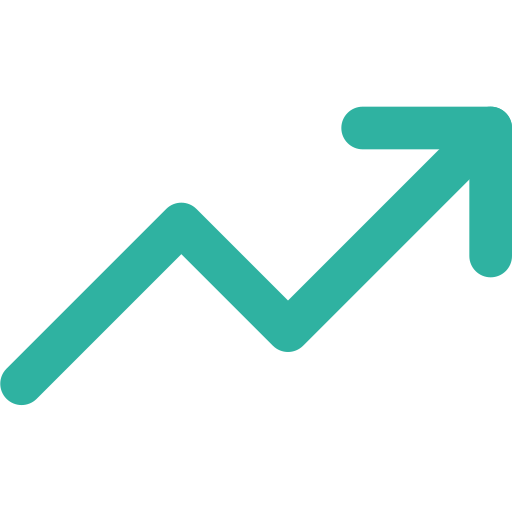
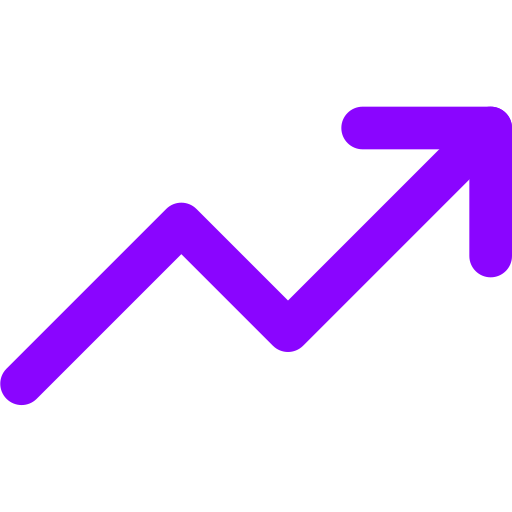
style: enhance UI with purple accents across components; update scrollbar, loading animations, and footer styles for a cohesive design; improve link hover effects and add subtle glitch animations to header

Changed region(s): [[0.0, 0.1875, 1.0, 0.8125]]

diff --git a/dashboard/app/globals.css b/dashboard/app/globals.css
@@ -64,7 +64,7 @@ html {
   display: none;
 }
 
-/* Custom scrollbar for expanded cards */
+/* Custom scrollbar for expanded cards with purple accent */
 .overflow-y-auto::-webkit-scrollbar {
   width: 6px;
 }
@@ -75,15 +75,15 @@ html {
 }
 
 .overflow-y-auto::-webkit-scrollbar-thumb {
-  background: #3f3f46;
+  background: linear-gradient(180deg, #8b5cf6, #a78bfa);
   border-radius: 3px;
 }
 
 .overflow-y-auto::-webkit-scrollbar-thumb:hover {
-  background: #52525b;
+  background: linear-gradient(180deg, #a78bfa, #c4b5fd);
 }
 
-/* Loading shimmer animation */
+/* Loading shimmer animation with purple tint */
 @keyframes shimmer {
   0% {
     transform: translateX(-100%);
@@ -95,25 +95,56 @@ html {
 
 .loading-shimmer {
   animation: shimmer 2s infinite;
+  background: linear-gradient(90deg, transparent, rgba(139, 92, 246, 0.2), transparent);
 }
 
-/* Prose styling for markdown in dark mode */
+/* Scanline overlay for retro tech feel */
+body::after {
+  content: '';
+  position: fixed;
+  top: 0;
+  left: 0;
+  width: 100%;
+  height: 100%;
+  background: repeating-linear-gradient(
+    0deg,
+    rgba(139, 92, 246, 0.03) 0px,
+    transparent 1px,
+    transparent 2px,
+    rgba(139, 92, 246, 0.03) 3px
+  );
+  pointer-events: none;
+  z-index: 9999;
+  opacity: 0.4;
+}
+
+/* Pixel-perfect corners effect */
+@keyframes corner-pulse {
+  0%, 100% {
+    opacity: 0.6;
+  }
+  50% {
+    opacity: 1;
+  }
+}
+
+/* Prose styling for markdown in dark mode with purple accents */
 .prose-invert {
   --tw-prose-body: #d4d4d8;
   --tw-prose-headings: #ffffff;
   --tw-prose-lead: #a1a1aa;
-  --tw-prose-links: #60a5fa;
+  --tw-prose-links: #a78bfa;
   --tw-prose-bold: #ffffff;
   --tw-prose-counters: #a1a1aa;
-  --tw-prose-bullets: #71717a;
-  --tw-prose-hr: #3f3f46;
+  --tw-prose-bullets: #8b5cf6;
+  --tw-prose-hr: #8b5cf6;
   --tw-prose-quotes: #d4d4d8;
-  --tw-prose-quote-borders: #3f3f46;
+  --tw-prose-quote-borders: #8b5cf6;
   --tw-prose-captions: #a1a1aa;
-  --tw-prose-code: #ffffff;
+  --tw-prose-code: #c4b5fd;
   --tw-prose-pre-code: #d4d4d8;
   --tw-prose-pre-bg: #18181b;
-  --tw-prose-th-borders: #3f3f46;
+  --tw-prose-th-borders: #8b5cf6;
   --tw-prose-td-borders: #27272a;
 }
 
@@ -137,18 +168,23 @@ html {
 .prose a {
   color: var(--tw-prose-links);
   text-decoration: none;
+  transition: all 0.2s ease;
+  position: relative;
 }
 
 .prose a:hover {
   text-decoration: underline;
+  color: #c4b5fd;
+  text-shadow: 0 0 8px rgba(139, 92, 246, 0.6);
 }
 
 .prose code {
   color: var(--tw-prose-code);
-  background-color: var(--tw-prose-pre-bg);
+  background-color: rgba(139, 92, 246, 0.1);
   padding: 0.2em 0.4em;
   border-radius: 3px;
   font-size: 0.875em;
+  border: 1px solid rgba(139, 92, 246, 0.2);
 }
 
 .prose pre {
@@ -187,10 +223,10 @@ html {
   scroll-snap-align: start;
 }
 
-/* Footer Styles */
+/* Footer Styles with purple accents */
 .app-footer {
   background-color: #0D0D0D;
-  border-top: 1px solid #71717a;
+  border-top: 1px solid #8b5cf6;
   padding: 2rem 2rem 2rem 4rem;
   color: #FFFFFF;
   font-size: 1.1rem;
@@ -200,6 +236,7 @@ html {
   align-items: center;
   position: relative;
   z-index: 1;
+  box-shadow: 0 -1px 20px rgba(139, 92, 246, 0.2);
 }
 
 .app-footer p {
@@ -231,11 +268,11 @@ html {
   font-weight: 400;
   line-height: 125%;
   letter-spacing: 0.16px;
-  transition: color 0.2s ease;
+  transition: color 0.3s ease;
 }
 
 .footer-link:hover {
-  color: #ffffff;
+  color: #a78bfa;
 }
 
 /* Repo Card Mobile Responsive Widths */

diff --git a/dashboard/components/Header.css b/dashboard/components/Header.css
@@ -6,12 +6,13 @@
   width: 100%;
   height: 80px;
   background: rgb(15, 15, 15);
-  border-bottom: 1px solid #71717a;
+  border-bottom: 1px solid #8b5cf6;
   display: flex;
   justify-content: space-between;
   align-items: center;
   z-index: 1000;
   padding: 0 2rem;
+  box-shadow: 0 1px 20px rgba(139, 92, 246, 0.2);
 }
 
 .header-content {
@@ -42,14 +43,17 @@
   font-family: 'SF Pro Display', -apple-system, BlinkMacSystemFont, 'Segoe UI', system-ui, sans-serif;
   text-transform: uppercase;
   letter-spacing: 2px;
-  background: linear-gradient(to right, #3b82f6, #60a5fa, #a78bfa, #c084fc);
+  background: linear-gradient(to right, #8b5cf6, #a78bfa, #c4b5fd, #a78bfa, #8b5cf6);
   background-size: 200% auto;
   -webkit-background-clip: text;
   -webkit-text-fill-color: transparent;
   background-clip: text;
-  text-shadow: 0 0 20px rgba(96, 165, 250, 0.3);
-  filter: drop-shadow(0 0 8px rgba(59, 130, 246, 0.4)) drop-shadow(0 0 12px rgba(167, 139, 250, 0.2));
-  animation: gradient-shift 3s ease infinite;
+  text-shadow: 0 0 30px rgba(139, 92, 246, 0.5);
+  filter: drop-shadow(0 0 10px rgba(139, 92, 246, 0.6)) 
+          drop-shadow(0 0 20px rgba(167, 139, 250, 0.3))
+          drop-shadow(2px 0 0 rgba(139, 92, 246, 0.1));
+  animation: gradient-shift 4s ease infinite, subtle-glitch 8s ease-in-out infinite;
+  position: relative;
 }
 
 @keyframes gradient-shift {
@@ -58,6 +62,30 @@
   }
   50% {
     background-position: 100% center;
+  }
+}
+
+/* Subtle glitch effect */
+@keyframes subtle-glitch {
+  0%, 90%, 100% {
+    transform: translate(0);
+    filter: drop-shadow(0 0 10px rgba(139, 92, 246, 0.6)) 
+            drop-shadow(0 0 20px rgba(167, 139, 250, 0.3));
+  }
+  92% {
+    transform: translate(-2px, 0);
+    filter: drop-shadow(0 0 10px rgba(139, 92, 246, 0.8)) 
+            drop-shadow(0 0 20px rgba(167, 139, 250, 0.5))
+            drop-shadow(2px 0 0 rgba(255, 0, 255, 0.3));
+  }
+  94% {
+    transform: translate(2px, 0);
+    filter: drop-shadow(0 0 10px rgba(139, 92, 246, 0.8)) 
+            drop-shadow(0 0 20px rgba(167, 139, 250, 0.5))
+            drop-shadow(-2px 0 0 rgba(0, 255, 255, 0.3));
+  }
+  96% {
+    transform: translate(0);
   }
 }
 

diff --git a/dashboard/components/ScrollableRow.tsx b/dashboard/components/ScrollableRow.tsx
@@ -118,7 +118,7 @@ export default function ScrollableRow({ title, repos, icon }: ScrollableRowProps
       {/* Left scroll arrow - hidden on touch devices */}
       <button
         onClick={() => scroll('left')}
-        className="hidden md:block absolute left-0 top-1/2 -translate-y-1/2 z-20 bg-black/80 hover:bg-black/95 text-white p-3 rounded-r-lg opacity-0 group-hover:opacity-100 transition-opacity border border-zinc-800"
+        className="hidden md:block absolute left-0 top-1/2 -translate-y-1/2 z-20 bg-black/80 hover:bg-purple-900/30 text-white hover:text-purple-300 p-3 rounded-r-lg opacity-0 group-hover:opacity-100 transition-all border border-zinc-800 hover:border-purple-500"
         aria-label="Scroll left"
       >
         <svg className="w-6 h-6" fill="none" stroke="currentColor" viewBox="0 0 24 24">
@@ -129,7 +129,7 @@ export default function ScrollableRow({ title, repos, icon }: ScrollableRowProps
       {/* Right scroll arrow - hidden on touch devices */}
       <button
         onClick={() => scroll('right')}
-        className="hidden md:block absolute right-0 top-1/2 -translate-y-1/2 z-20 bg-black/80 hover:bg-black/95 text-white p-3 rounded-l-lg opacity-0 group-hover:opacity-100 transition-opacity border border-zinc-800"
+        className="hidden md:block absolute right-0 top-1/2 -translate-y-1/2 z-20 bg-black/80 hover:bg-purple-900/30 text-white hover:text-purple-300 p-3 rounded-l-lg opacity-0 group-hover:opacity-100 transition-all border border-zinc-800 hover:border-purple-500"
         aria-label="Scroll right"
       >
         <svg className="w-6 h-6" fill="none" stroke="currentColor" viewBox="0 0 24 24">

diff --git a/dashboard/app/layout.tsx b/dashboard/app/layout.tsx
@@ -36,7 +36,7 @@ export default function RootLayout({
           {/* Icon Credits */}
           <div className="px-4 sm:px-6 md:px-8 pb-6 sm:pb-8">
             <p className="text-xs text-zinc-600">
-              Icons created by <a href="https://www.flaticon.com/authors/freepik" target="_blank" rel="noopener noreferrer" className="hover:text-zinc-400 transition-colors">Freepik</a> and <a href="https://www.flaticon.com/authors/ferdinand" target="_blank" rel="noopener noreferrer" className="hover:text-zinc-400 transition-colors">Ferdinand</a> via <a href="https://www.flaticon.com" target="_blank" rel="noopener noreferrer" className="hover:text-zinc-400 transition-colors">Flaticon</a>
+              Icons created by <a href="https://www.flaticon.com/authors/freepik" target="_blank" rel="noopener noreferrer" className="hover:text-purple-400 transition-colors">Freepik</a> and <a href="https://www.flaticon.com/authors/ferdinand" target="_blank" rel="noopener noreferrer" className="hover:text-purple-400 transition-colors">Ferdinand</a> via <a href="https://www.flaticon.com" target="_blank" rel="noopener noreferrer" className="hover:text-purple-400 transition-colors">Flaticon</a>
             </p>
           </div>
 

diff --git a/dashboard/components/RepoCard.tsx b/dashboard/components/RepoCard.tsx
@@ -40,7 +40,7 @@ export default function RepoCard({ repo }: RepoCardProps) {
     >
       <motion.div
         layout
-        className={`bg-black border border-zinc-700 hover:border-white transition-colors flex flex-col relative ${
+        className={`bg-black border border-zinc-700 hover:border-purple-500 transition-all duration-300 flex flex-col relative group ${
           isExpanded ? 'repo-card-expanded' : 'repo-card-collapsed'
         }`}
         style={{ 
@@ -97,7 +97,7 @@ export default function RepoCard({ repo }: RepoCardProps) {
               animate={{ opacity: 1, scale: 1 }}
               exit={{ opacity: 0, scale: 0.8 }}
               transition={{ duration: 0.2 }}
-              className="absolute bottom-3 right-3 sm:bottom-4 sm:right-4 text-zinc-400 hover:text-white transition-colors"
+              className="absolute bottom-3 right-3 sm:bottom-4 sm:right-4 text-purple-400 hover:text-purple-300 transition-all duration-300 hover:scale-110"
             >
               <svg 
                 className="w-4 h-4 sm:w-5 sm:h-5" 

diff --git a/dashboard/components/LoadingSkeleton.tsx b/dashboard/components/LoadingSkeleton.tsx
@@ -10,9 +10,9 @@ export default function LoadingSkeleton({ count = 10 }: LoadingSkeletonProps) {
       {Array.from({ length: count }).map((_, i) => (
         <div
           key={i}
-          className="flex-shrink-0 w-[280px] sm:w-80 h-60 sm:h-[280px] bg-zinc-900 rounded-lg relative overflow-hidden"
+          className="flex-shrink-0 w-[280px] sm:w-80 h-60 sm:h-[280px] bg-zinc-900 rounded-lg relative overflow-hidden border border-zinc-800"
         >
-          <div className="absolute inset-0 bg-gradient-to-r from-transparent via-white/10 to-transparent loading-shimmer" />
+          <div className="absolute inset-0 bg-gradient-to-r from-transparent via-purple-500/20 to-transparent loading-shimmer" />
         </div>
       ))}
     </div>

diff --git a/dashboard/components/TypingTagline.tsx b/dashboard/components/TypingTagline.tsx
@@ -12,7 +12,7 @@ export default function TypingTagline() {
             href="https://render.com/docs/workflows" 
             target="_blank" 
             rel="noopener noreferrer"
-            className="text-zinc-400 hover:text-white underline transition-colors"
+            className="text-purple-400 hover:text-purple-300 underline transition-colors"
           >
             Render Workflows
           </a>

diff --git a/dashboard/components/TypingTagline.css b/dashboard/components/TypingTagline.css
@@ -17,7 +17,7 @@
   display: inline-block;
   overflow: hidden;
   white-space: nowrap;
-  border-right: 3px solid #60a5fa;
+  border-right: 3px solid #a78bfa;
   animation: 
     typing 3.5s steps(75, end) forwards,
     blink-caret 0.75s step-end infinite;
@@ -39,7 +39,7 @@
     border-color: transparent;
   }
   50% {
-    border-color: #60a5fa;
+    border-color: #a78bfa;
   }
 }
 
